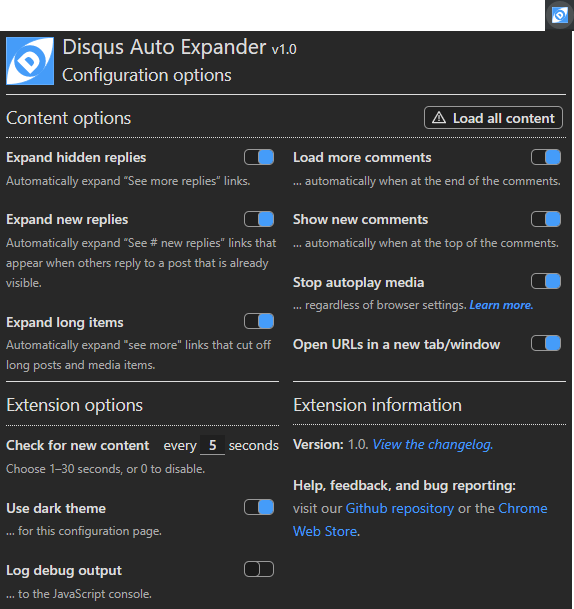
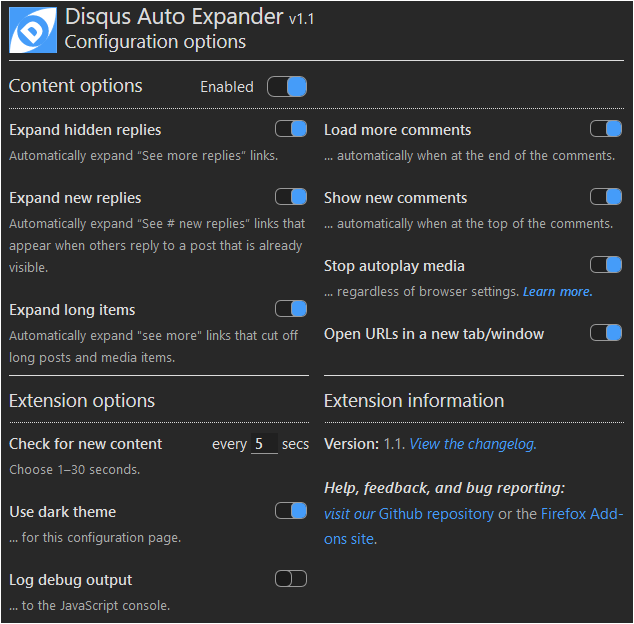
V1.1 documentation updates.

Changed region(s): [[0.0, 0.0, 1.0, 1.0], [0.4146, 0.9048, 0.5035, 0.9672]]

diff --git a/README.md b/README.md
@@ -1,12 +1,10 @@
 # Disqus Auto Expander
 
-Disqus Auto Expander is a browser extensions for Chrome and Firefox that automatically expands collapsed replies and long posts and media items in Disqus discussions. The latest version is 1.0 (see the [changelog](#changelog)).
+Disqus Auto Expander is a browser extensions for Chrome and Firefox that automatically expands collapsed replies and long posts and media items in Disqus discussions. The latest version is 1.1 (see the [changelog](#changelog)).
 
 ---
 
 ## Installation
-
-_**NOTE:** The Chrome and Firefox extensions are now available in their respective app stores._
 
 ### Chrome desktop browser
 
@@ -59,23 +57,21 @@ On the configuration popup or page you can change any of the options shown. Chan
 
 ### Configuration options
 
-Click the Disqus Auto-Expander icon (![](docs/dax_icon_blue.png) or ![](docs/dax_icon_gray.png)) to display the Configuration options page. 
+Click the Disqus Auto-Expander icon (![](docs/dax_icon_blue.png) or ![](docs/dax_icon_gray.png)) to display the Configuration options page.
 
 When the icon is blue, the active tab or window contains a Disqus discussion. The Options page appears as a popup when the icon is clicked. Note that you might have to scroll down to see all of the options in the popup.
 
-When the icon is gray, the active tab or window does not contain a Disqus discussion. The browser’s Extension management menu appears when the icon is clicked. Choose the “Options” menu item to display the Configuration options page in a new browser tab or window. 
+When the icon is gray, the active tab or window does not contain a Disqus discussion. The browser’s Extension management menu appears when the icon is clicked. Choose the “Options” menu item to display the Configuration options page in a new browser tab or window.
 
 The sections below provide more information about these configuration options.
 
 _**Note:** your changes on the Configuration options page are saved automatically. And if you use your browser’s synchronization feature, your settings will be synchronized to your other browsers._
 
-#### Load all content
+#### Enabled
 
-_**Note**: as of June 20, 2019, this feature is currently only available for Chrome, and has not yet been published to the Chrome web store._
+This option controls whether the extension runs on web pages with Disqus discussions. When this option is turned off, the extension pauses its search for new links to expand, the other Configuraton option toggles become disabled, and the extension’s icon changes to a “paused” image: ![Extension icon when paused](docs/dax_icon_paused.png).
 
-Click this button to automatically expand all content and reply links until all of the discussion content is loaded. This feature is most useful for discussions that are not receiving new comments or replies. The goal is to allow searching the full content of the discussion using your browser’s “Find...” (Ctrl+F) command.
-
-_**Notes**:_ 
+_**Notes**:_
 
 _1. This button is only available from the popup version of the options page, since it applies to the currently active tab or window that contains a Disqus discussion._
 
@@ -120,18 +116,28 @@ When you click on an embedded media item (image, Tweet, video), the item opens i
 
 These options control other aspects of the extension.
 
-- **Check for changes**: controls how often (in seconds) the extension checks for new links. If you set this value to 0 (zero), the extension pauses its search for new links to expand. In that case, the extension’s icon changes to a “paused” image: ![Extension icon when paused](docs/dax_icon_paused.png).
+- **Check for changes**: controls how often (in seconds) the extension checks for new links.
 
 - **Use dark theme**: displays the options page in a dark color scheme:
-![Configuration options popup in dark theme](docs/dax_config_page_dark.png)
+  ![Configuration options popup in dark theme](docs/dax_config_page_dark.png)
 
 - **Log debug output**: causes the extension to log debug messages to the brower’s Developer Console. You should not need to enable this option during normal usage.
+
+## Load entire discussion
+
+Unlike the other options, this button appears on the web page itself, at the top of the discussion area just above the "Join the discussion" entry field, whenever there is some hidden discussion content.
+![Load entire dicusssion button](docs/dax_load_entire_discussion_button.png)
+
+Click this button to automatically expand all content and reply links until all of the discussion content is loaded. This feature is most useful for discussions that are not receiving new comments or replies. The goal is to allow searching the full content of the discussion using your browser’s “Find...” (Ctrl+F) command.
+
+_**Note:** this feature can take some time to run and use a lot of data and memory, especially for long discussions. A warning about this appears the first time you select this option on a long discussion (more than 500 comments)._
 
 ---
 
 ## Reporting bugs
 
 If you encounter a bug, please create an Issue in this repository. Be sure include the following information:
+
 - The URL of the page where the error happened.
 - The issue you experienced (describe in as much detail as possible).
 - If you can reproduce the problem, provide the steps to do so.
@@ -142,6 +148,13 @@ If you encounter a bug, please create an Issue in this repository. Be sure inclu
 ---
 
 ## Changelog
+
+### Version 1.1
+
+- The **Load entire discussion** button has moved to the main web page to make the feature available on mobile browsers.
+- New **Enabled** option on the Configuration page to control whether the extension operates on the current page. Such control was previously possible by setting the “Check for new content” option to 0 (zero). With the new “Enabled” option, 0 is no longer an allowed value for “Check for new content”.
+- Content processing pauses when an open reply field is visible on the page. This is to prevent links above the reply field from expanding and pushing the reply field down (or possibly off the end of) the browser windown. Processing resumes when the reply field is closed or scrolled off the screen.
+- Various bug fixes and improvements in functionality.
 
 ### Version 1.0
 
